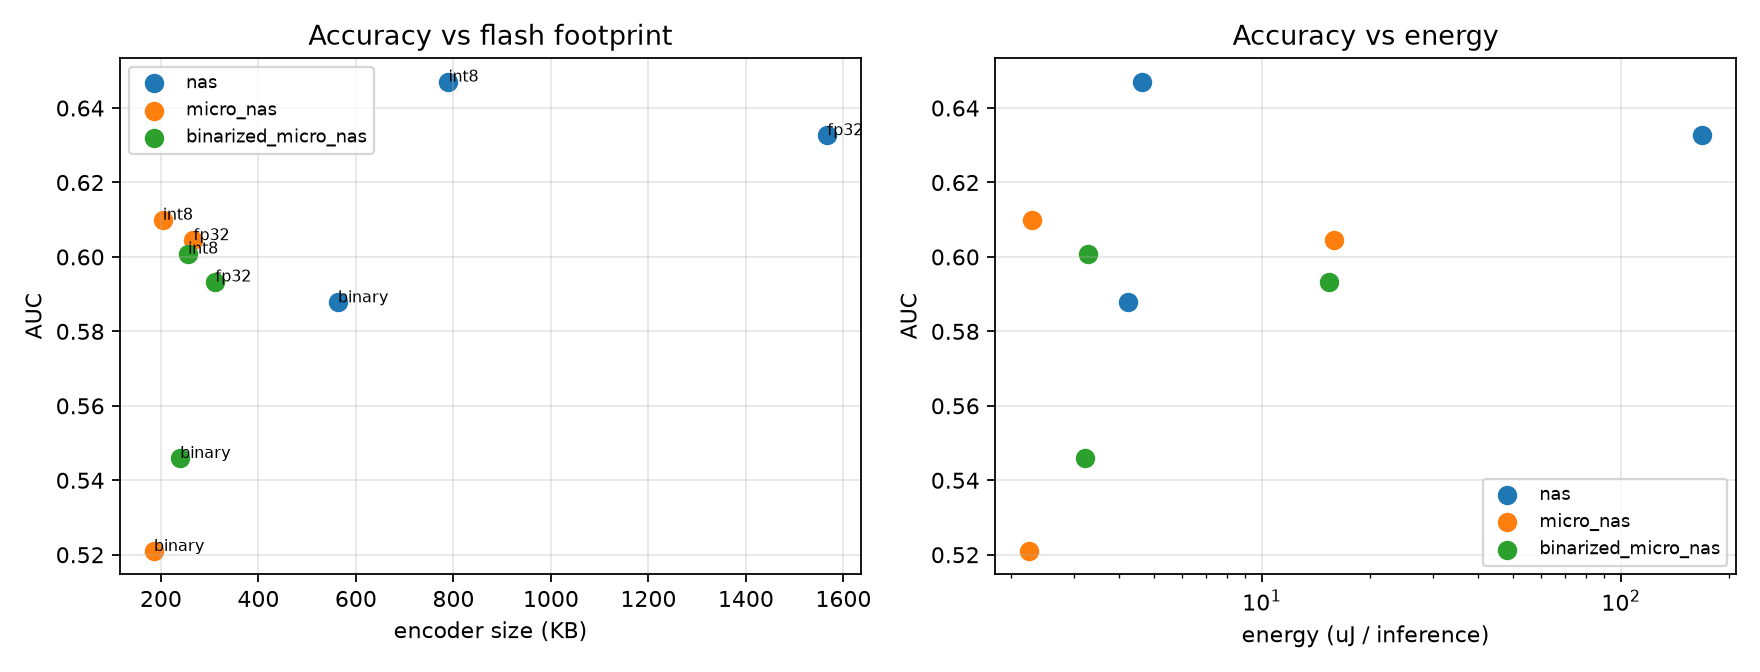
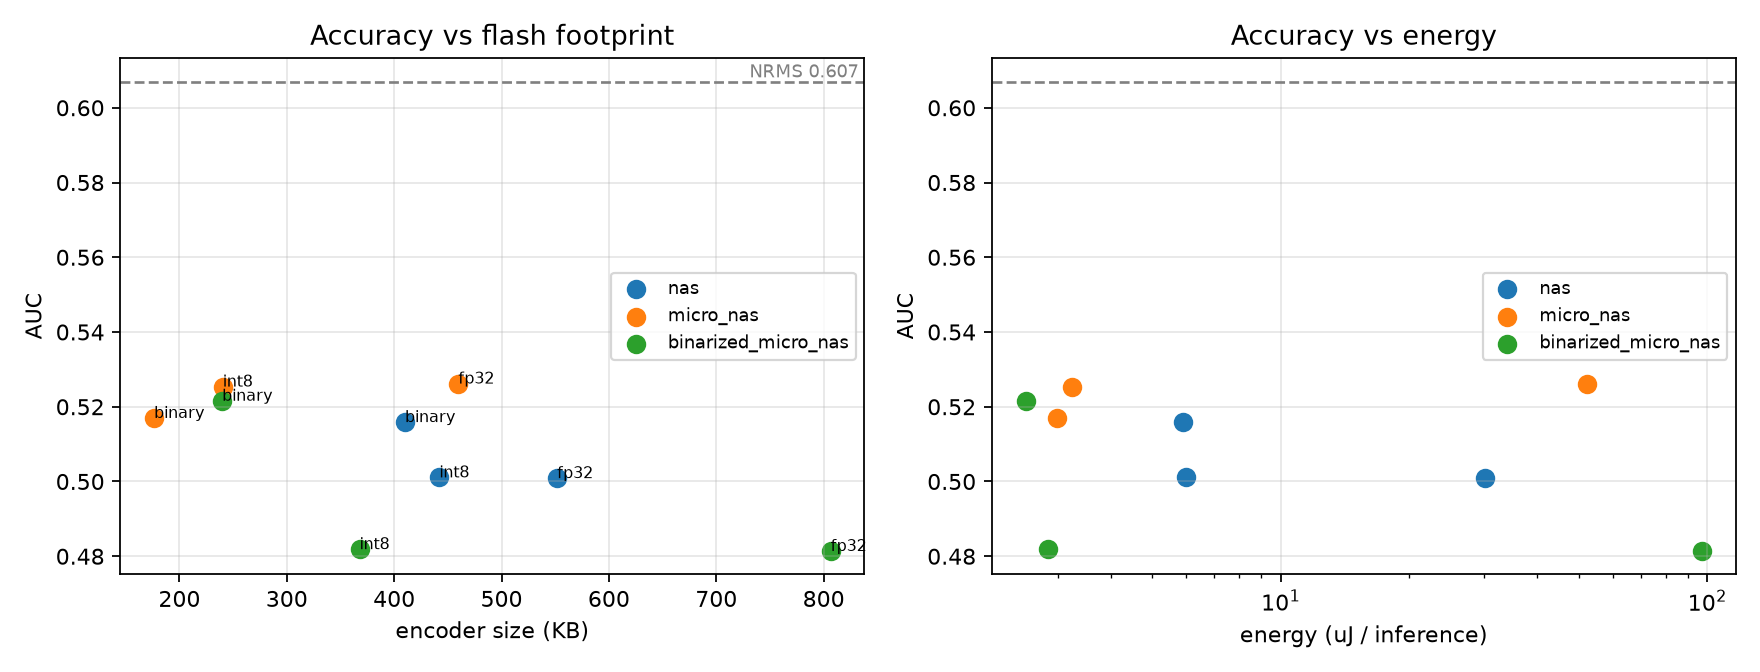
Honest measurement scope + real laptop latency; reproducibility; SOTA refs
- NO mock data: Pi5/STM32 were never measured -> marked TODO/future everywhere
  (Method, hardware table "(planned)", Limitations, abstract); fixed false
  "measured binary inference on Pi5" claim
- add REAL measured laptop latency table (GPU + onnxruntime CPU; weight-
  independent; all <<50ms) via scripts/measure_latency.py
- Reproducibility paragraph (seed, SHA256 pinning, code/artifacts/lock release)
  + software footnotes (thop, onnxruntime, X-CUBE-AI)
- SOTA refs added (ByT5, MambaByte, on-device recsys survey) in Related Work
- Pareto figure: draw the NRMS dashed reference line the caption promised
- rebuild PDF (no undefined refs/citations)

diff --git a/paper/paper.tex b/paper/paper.tex
@@ -45,8 +45,9 @@ under 2\,MB. We study three architecture-search regimes---\textbf{NAS},
 \textbf{Micro-NAS} (MCU-constrained), and \textbf{binarized Micro-NAS}---across
 three precisions (\textbf{FP32\,/\,INT8\,/\,Binary}), reporting a full matrix
 of ranking quality (AUC, MRR, nDCG@5/10 on MIND) against \textbf{flash
-footprint, RAM, and energy} on an RTX~5070\,$\to$\,Raspberry~Pi~5\,$\to$\,STM32H7
-path. INT8 Micro-NAS reaches \textbf{0.610} AUC at \textbf{204\,KB}---matching
+footprint, RAM, and energy} targeting an
+RTX~5070\,$\to$\,Raspberry~Pi~5\,$\to$\,STM32H7 path (measured on the laptop;
+on-device boards are future work). INT8 Micro-NAS reaches \textbf{0.610} AUC at \textbf{204\,KB}---matching
 a full NRMS word-embedding baseline (0.607) at a fraction of the
 size---while unconstrained INT8 NAS reaches \textbf{0.647} AUC at 790\,KB
 (+0.04 over NRMS, with no vocabulary table and full multilingual coverage);
@@ -140,10 +141,13 @@ AUC & 0.646 & 0.667 & 0.669 & 0.677 & 0.678 \\
 
 \noindent\textbf{Tokenization-free / compact encoders.}
 Byte- and character-level models~\cite{clark2022canine} and feature
-hashing~\cite{joulin2017fasttext} drop the vocabulary table; multilingual
+hashing~\cite{joulin2017fasttext} drop the vocabulary table; byte-level models
+scale competitively and are robust in multilingual / noisy settings
+(ByT5~\cite{xue2022byt5}, MambaByte~\cite{wang2024mambabyte}), and multilingual
 distillation~\cite{reimers2020multilingual} aligns translations to a shared
-space. We combine these: a byte student distilled to multilingual teacher anchor
-embeddings.
+space. On-device recommendation is an active area~\cite{yin2024ondevice,yu2021tinynewsrec};
+we bring byte-level encoding + teacher distillation to the on-device news-rec
+setting under a joint NAS\,$\times$\,precision study.
 
 \noindent\textbf{TinyML NAS and BNNs.}
 MCUNet~\cite{lin2020mcunet} and $\mu$NAS~\cite{liberis2021unas} search under MCU
@@ -210,8 +214,10 @@ short QAT are supported.
 
 Params and MACs via \texttt{thop}; model size $=$ params\,$\times$\,bytes\,/\,precision;
 energy proxy $=$ MACs\,$\times$\,per-op energy (Horowitz 45\,nm~\cite{horowitz2014}),
-labelled relative. Measured latency/energy via CUDA timing and NVML on the RTX~5070;
-onnxruntime on the Pi~5 (INA219 for physical power).
+labelled relative. Latency is \emph{measured} on the laptop (CUDA-synced timing on
+the GPU; onnxruntime on the CPU). On-device Pi~5 and STM32H7 latency/energy
+(onnxruntime + INA219; X-CUBE-AI cycles) are \textbf{future work} --- those boards
+are not yet available, so no Pi~5/STM32H7 numbers are reported.
 
 
 %---------------------------------------------------------------
@@ -266,11 +272,19 @@ driven from a single notebook.
 Platform & Key spec & Latency / energy method \\
 \midrule
 Laptop (train + search) & RTX~5070 Laptop GPU, Core Ultra~9 275HX, 32\,GB & CUDA-synced timing; NVML power \\
-Raspberry~Pi~5          & BCM2712, Cortex-A76 $\times$4 @2.4\,GHz        & onnxruntime; INA219 shunt \\
-STM32H743               & Cortex-M7 @480\,MHz, 2\,MB flash / 1\,MB SRAM  & X-CUBE-AI cycles; analytical (binary) \\
+Raspberry~Pi~5          & BCM2712, Cortex-A76 $\times$4 @2.4\,GHz        & onnxruntime; INA219 \emph{(planned)} \\
+STM32H743               & Cortex-M7 @480\,MHz, 2\,MB flash / 1\,MB SRAM  & X-CUBE-AI cycles \emph{(planned)} \\
 \bottomrule
 \end{tabular}
 \end{table}
+
+\noindent\textbf{Reproducibility.}
+All runs use a fixed random seed; the datasets are SHA256-pinned (manifest). The
+code, the driving notebook, the exported artifacts (ONNX encoder + cold-start
+prior), and the exact dependency lock are released
+openly.\footnote{Repository URL omitted for double-blind review.} Profiling uses
+\texttt{thop} (MACs) and onnxruntime (CPU latency); MCU footprint follows ST
+X-CUBE-AI conventions.
 
 
 %---------------------------------------------------------------
@@ -325,6 +339,32 @@ $\approx$1.4--2$\times$. Binarization costs 5--9 AUC points; because the byte
 embedding and first/last layers stay full-precision (XNOR-Net practice), its
 size gain over INT8 is modest at this scale. Micro-NAS finds a 204\,KB INT8
 encoder that fits an aggressive on-device budget at near-baseline accuracy.
+
+\subsection{Latency (measured on the laptop)}
+
+Table~\ref{tab:latency} reports single-inference encoder latency measured on the
+laptop (GPU via CUDA-synced timing; CPU via onnxruntime, the engine also used on
+the Pi~5). All configurations are far under the 50\,ms on-device budget; CPU
+latency tracks compute while GPU latency is launch-overhead-dominated at this
+scale. \textbf{Pi~5 and STM32H7 on-device latency/energy are TODO} (boards
+pending); only laptop numbers are reported.
+
+\begin{table}[t]
+\caption{Measured single-inference content-encoder latency on the laptop
+(Table~\ref{tab:hw}); batch~1, mean of 200--500 runs. Pi~5 / STM32H7 on-device
+timings: TODO.}
+\label{tab:latency}
+\centering\footnotesize
+\begin{tabular}{lcc}
+\toprule
+Architecture & GPU (ms) & CPU\,/\,ONNX (ms) \\
+\midrule
+NAS (256-4-384)            & 0.57 & 0.34 \\
+Micro-NAS (64-5-384)       & 0.65 & 0.19 \\
+Bin.\,$\mu$NAS (96-2-384)  & 0.43 & 0.10 \\
+\bottomrule
+\end{tabular}
+\end{table}
 
 \subsection{Multilingual Transfer (All 14 Languages)}
 
@@ -429,11 +469,13 @@ single laptop of Table~\ref{tab:hw}.
 %---------------------------------------------------------------
 
 \begin{itemize}
+  \item \textbf{On-device measurements are pending.} We measure latency on the
+    laptop only (GPU + onnxruntime CPU). Raspberry~Pi~5 and STM32H7 boards are not
+    yet available, so their on-device latency/energy are \emph{not measured here}
+    and remain TODO; size/RAM are computed and energy is the Horowitz proxy.
   \item \textbf{Binary-on-MCU is analytical.} No PyTorch\,$\to$\,1-bit\,$\to$\,STM32H7
-    toolchain exists (X-CUBE-AI's 1-bit path is Larq/TF only). We report measured
-    binary inference on Pi\,5 and the RTX~5070, and analytical flash/RAM/energy for the
-    MCU. Cortex-M7 lacks POPCOUNT, so binary is \emph{footprint-motivated, not
-    latency-motivated}.
+    toolchain exists (X-CUBE-AI's 1-bit path is Larq/TF only); Cortex-M7 also lacks
+    POPCOUNT, so binary is \emph{footprint-motivated, not latency-motivated}.
   \item \textbf{Cross-lingual transfer only.} xMIND reuses English impressions;
     results are not native-language click behaviour.
   \item \textbf{MT quality} varies for low-resource languages (grn, hat, som).

diff --git a/scripts/measure_latency.py b/scripts/measure_latency.py
@@ -1,0 +1,31 @@
+"""Measure REAL single-inference latency of each native architecture on this
+laptop (GPU via torch, CPU via onnxruntime). Latency is weight-independent, so
+random-init encoders of the searched shapes give valid timings. Saves
+artifacts/latency.json. Run: python -m scripts.measure_latency
+"""
+import json
+from pathlib import Path
+
+import torch
+
+from src.config import load_config
+from src import export, measure_energy
+from src.student import ByteCNNEncoder
+
+cfg = load_config()
+be, L = cfg["student"]["byte_embed_dim"], cfg["data"]["max_title_bytes"]
+ARCHS = {"NAS": (256, 4, 384), "Micro-NAS": (64, 5, 384), "Bin.uNAS": (96, 2, 384)}
+
+rows = []
+for name, (c, d, o) in ARCHS.items():
+    enc = ByteCNNEncoder(be, c, d, o)
+    onnx = export.export_encoder_onnx(enc, cfg, name=f"_lat_{name}.onnx")
+    cpu_ms = measure_energy.latency_onnx(onnx, L, n=200)
+    dev_enc = enc.to("cuda") if torch.cuda.is_available() else enc
+    gpu_ms = measure_energy.latency_torch(dev_enc, torch.zeros(1, L, dtype=torch.long), n=500)
+    rows.append({"arch": name, "gpu_ms": round(gpu_ms, 4), "cpu_onnx_ms": round(cpu_ms, 4)})
+    print(rows[-1], flush=True)
+    Path(onnx).unlink(missing_ok=True)
+
+Path(cfg["paths"]["artifacts_dir"], "latency.json").write_text(json.dumps(rows, indent=2))
+print("LATENCY DONE")

diff --git a/scripts/make_figures.py b/scripts/make_figures.py
@@ -24,6 +24,10 @@ for arm in m["arm"].unique():
     ax[1].scatter(s["energy_uj"], s["auc"], s=60, label=arm)
     for _, r in s.iterrows():
         ax[0].annotate(r["precision"], (r["size_kb"], r["auc"]), fontsize=7)
+for a in ax:                       # NRMS baseline as a dashed AUC reference
+    a.axhline(0.607, ls="--", color="grey", lw=1.2)
+ax[0].text(ax[0].get_xlim()[1], 0.607, "NRMS 0.607 ", va="bottom", ha="right",
+           fontsize=8, color="grey")
 ax[0].set(xlabel="encoder size (KB)", ylabel="AUC", title="Accuracy vs flash footprint")
 ax[1].set(xlabel="energy (uJ / inference)", ylabel="AUC", title="Accuracy vs energy")
 ax[1].set_xscale("log")